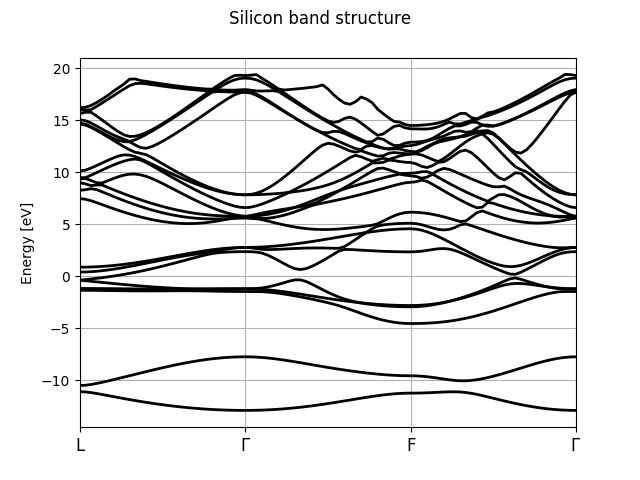
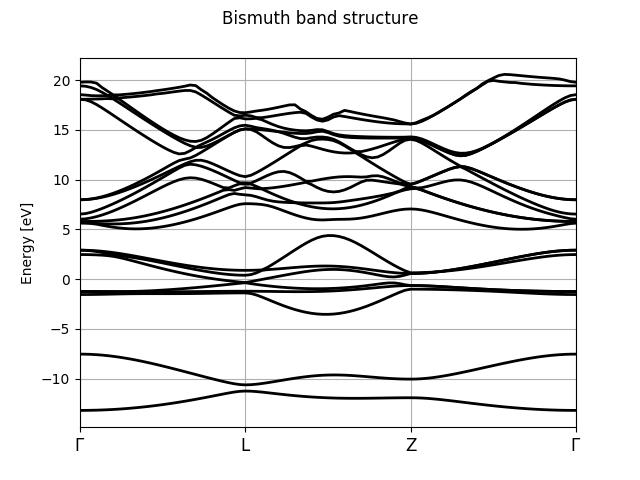
new plot band structure

diff --git a/figures/plot_band_structure.py b/figures/plot_band_structure.py
@@ -20,7 +20,7 @@ with abiopen(filename) as ncfile:
 
 # Plot the band energies. Note that the labels for the k-points
 # are found automatically in an internal database.
-ebands.plot(title="Silicon band structure", savefig=project_dir_path+"figures/band_structure.png", show=False)
+ebands.plot(title="Bismuth band structure", savefig=project_dir_path+"figures/band_structure.png", show=False)
 
 # Plot the BZ and the k-point path.
 #ebands.kpoints.plot()
